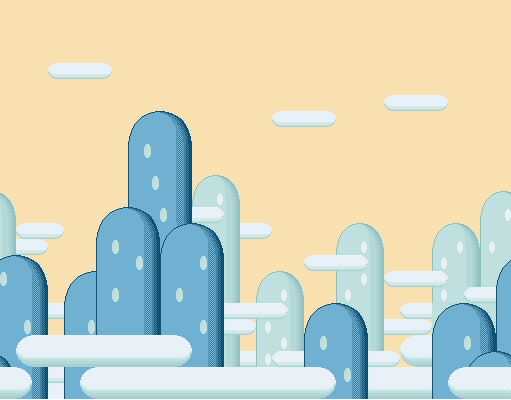
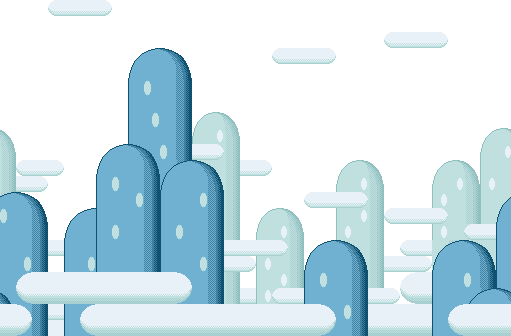
Modifs arriere plan pour Cycle Jour/Nuit

diff --git a/css/styles.css b/css/styles.css
@@ -35,17 +35,26 @@ body {
 canvas {
   display: block;
   margin: 0 auto;
-  background: url('../img/game/background2.png');
+  background: url('../img/game/background.png');
   background-repeat: repeat-x;
 }
 
 #gameBG {
-  background: url('../img/game/backgroundfar.png');
-  background-color: #F8E0B3;
-  background-repeat: repeat-x;
   display: block;
   margin: 20px auto;
   width: 592px;
+}
+
+.gameBGDay {
+  background: url('../img/game/backgroundfar.png');
+  background-color: #F8E0B0;
+  background-repeat: repeat-x;
+}
+
+.gameBGNight {
+  background: url('../img/game/backgroundfar.png');
+  background-color: #0064B8;
+  background-repeat: repeat-x;
 }
 
 nav {

diff --git a/partials/game.html b/partials/game.html
@@ -1,5 +1,5 @@
 <div ng-show="gameExists">
-	<div id="gameBG">
+	<div id="gameBG" class="gameBGDay">
 		<canvas id="jeu">
 			<p>Votre navigateur n'est pas capable d'afficher le jeu. Navigateurs compatibles:
 				<ul>
